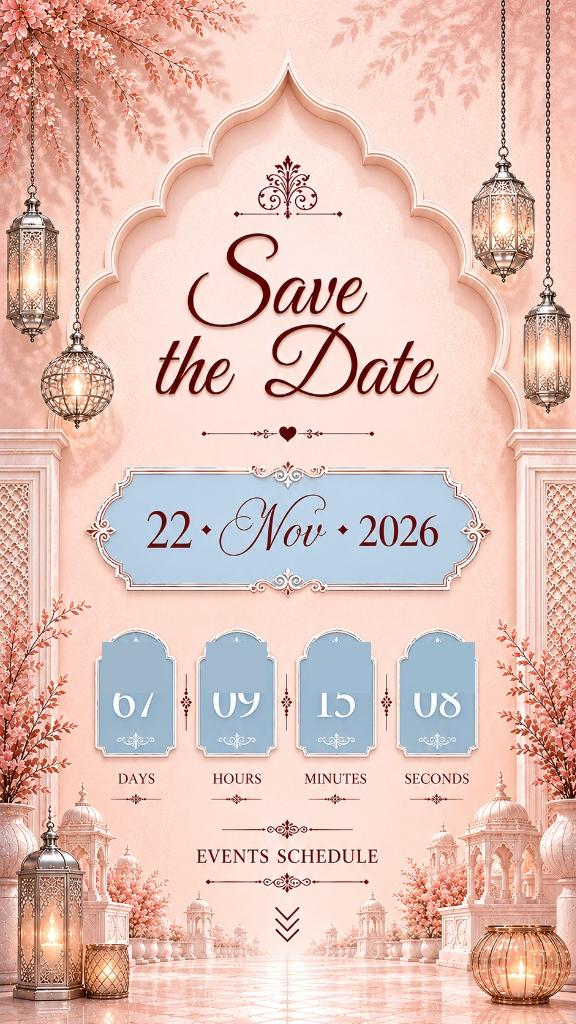
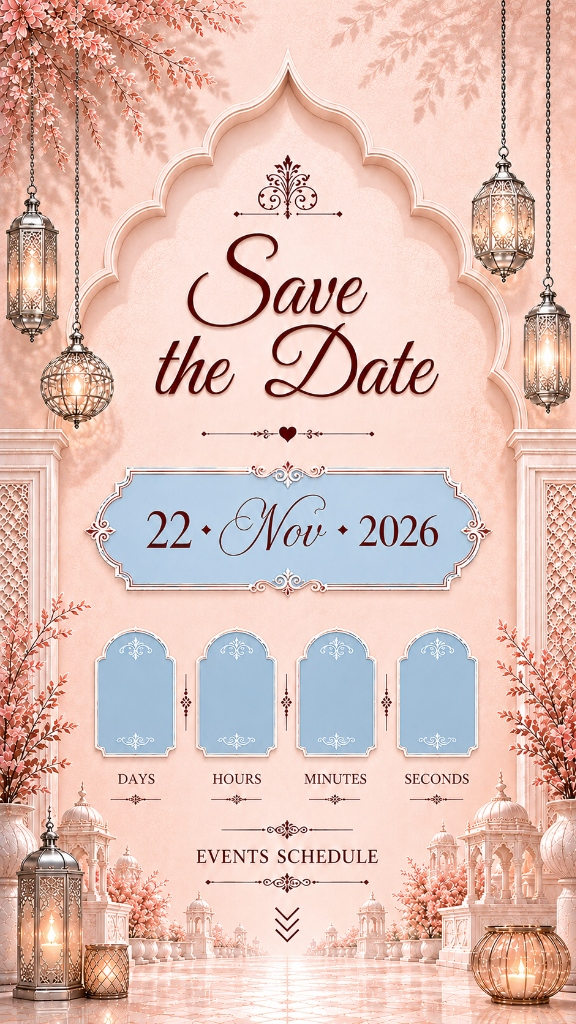
fix: replace Save the Date slide with final countdown design, and mathematically center the transparent countdown numbers inside each arch

diff --git a/index.html b/index.html
@@ -382,10 +382,10 @@ html,body {
 /* Countdown dynamic overlay boxes */
 .countdown-live-box {
   position: absolute;
-  top: 67.5%;
+  top: 68.1%; /* Perfectly centered vertically over the blue arches */
   transform: translate(-50%, -50%);
   width: 13.5%;
-  height: 6%;
+  height: 7%; /* Spans the full height of the arch interior */
   background: none; /* Transparent, displaying white text directly on printed arches */
   display: flex;
   align-items: center;
@@ -487,16 +487,16 @@ html,body {
         
         <!-- Responsive Overlay for dynamic countdown numbers -->
         <div class="countdown-overlay-wrapper">
-          <div class="countdown-live-box" style="left: 23%;">
+          <div class="countdown-live-box" style="left: 23.5%;">
             <div class="countdown-live-number" id="countdown-days">--</div>
           </div>
-          <div class="countdown-live-box" style="left: 41%;">
+          <div class="countdown-live-box" style="left: 41.1%;">
             <div class="countdown-live-number" id="countdown-hours">--</div>
           </div>
-          <div class="countdown-live-box" style="left: 59%;">
+          <div class="countdown-live-box" style="left: 58.5%;">
             <div class="countdown-live-number" id="countdown-minutes">--</div>
           </div>
-          <div class="countdown-live-box" style="left: 77%;">
+          <div class="countdown-live-box" style="left: 75.9%;">
             <div class="countdown-live-number" id="countdown-seconds">--</div>
           </div>
         </div>